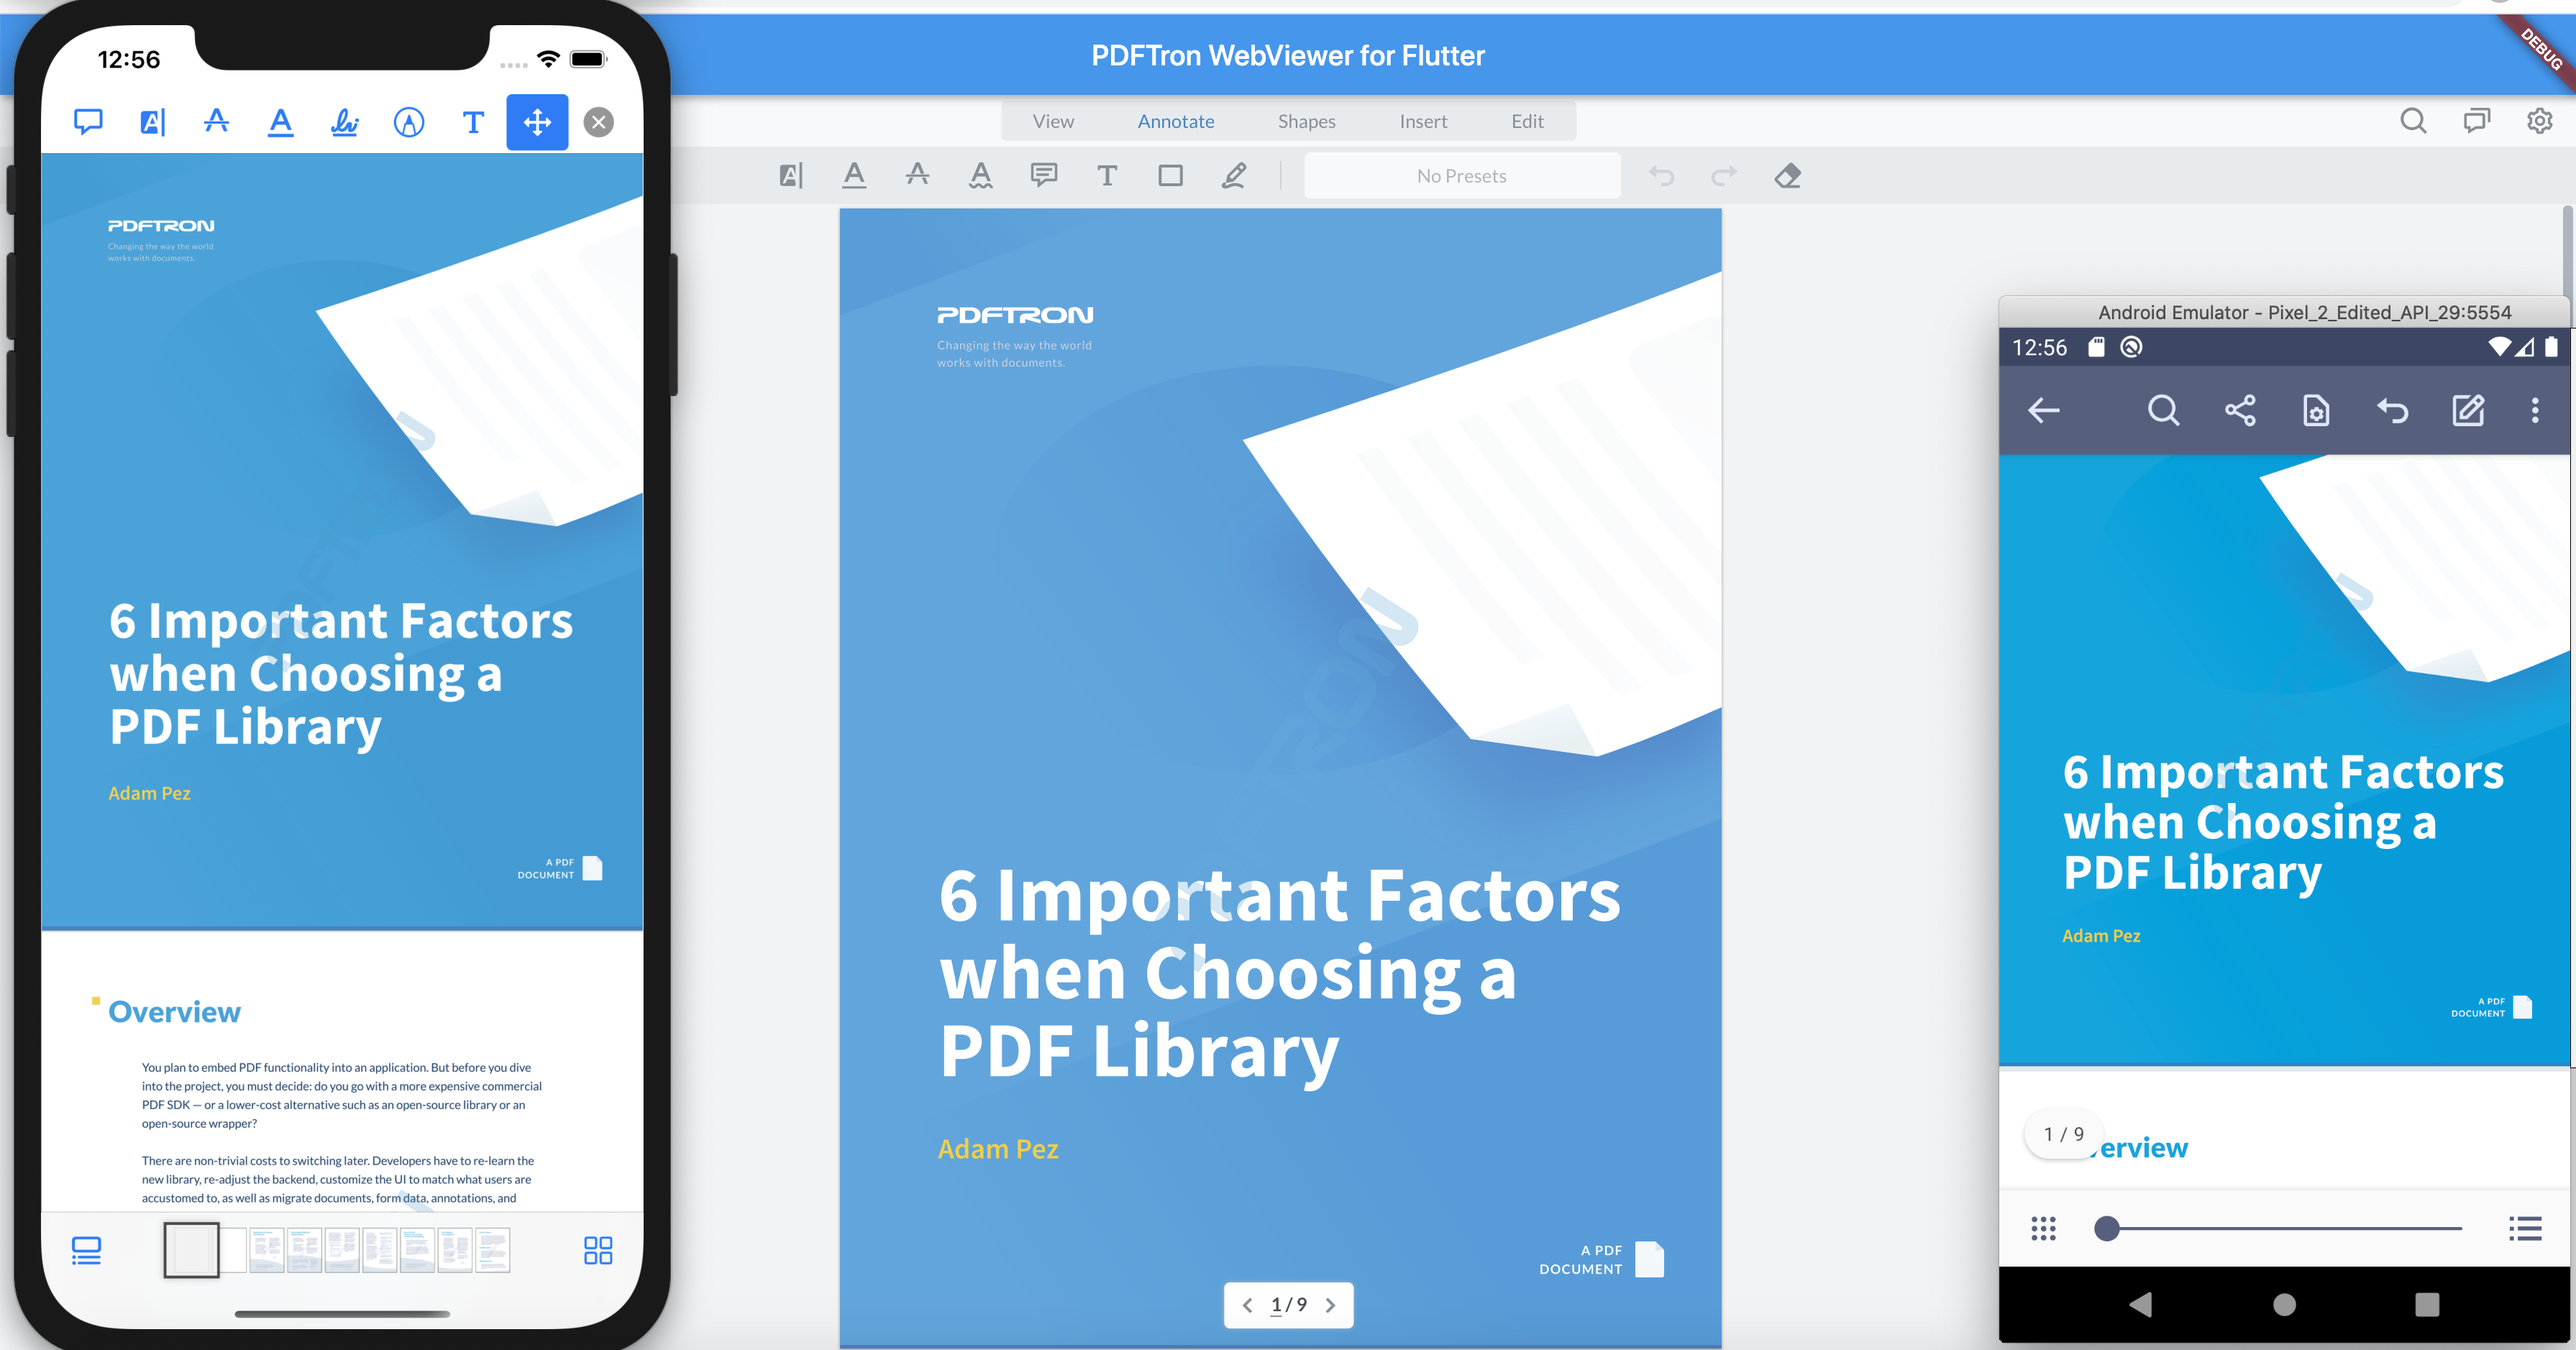
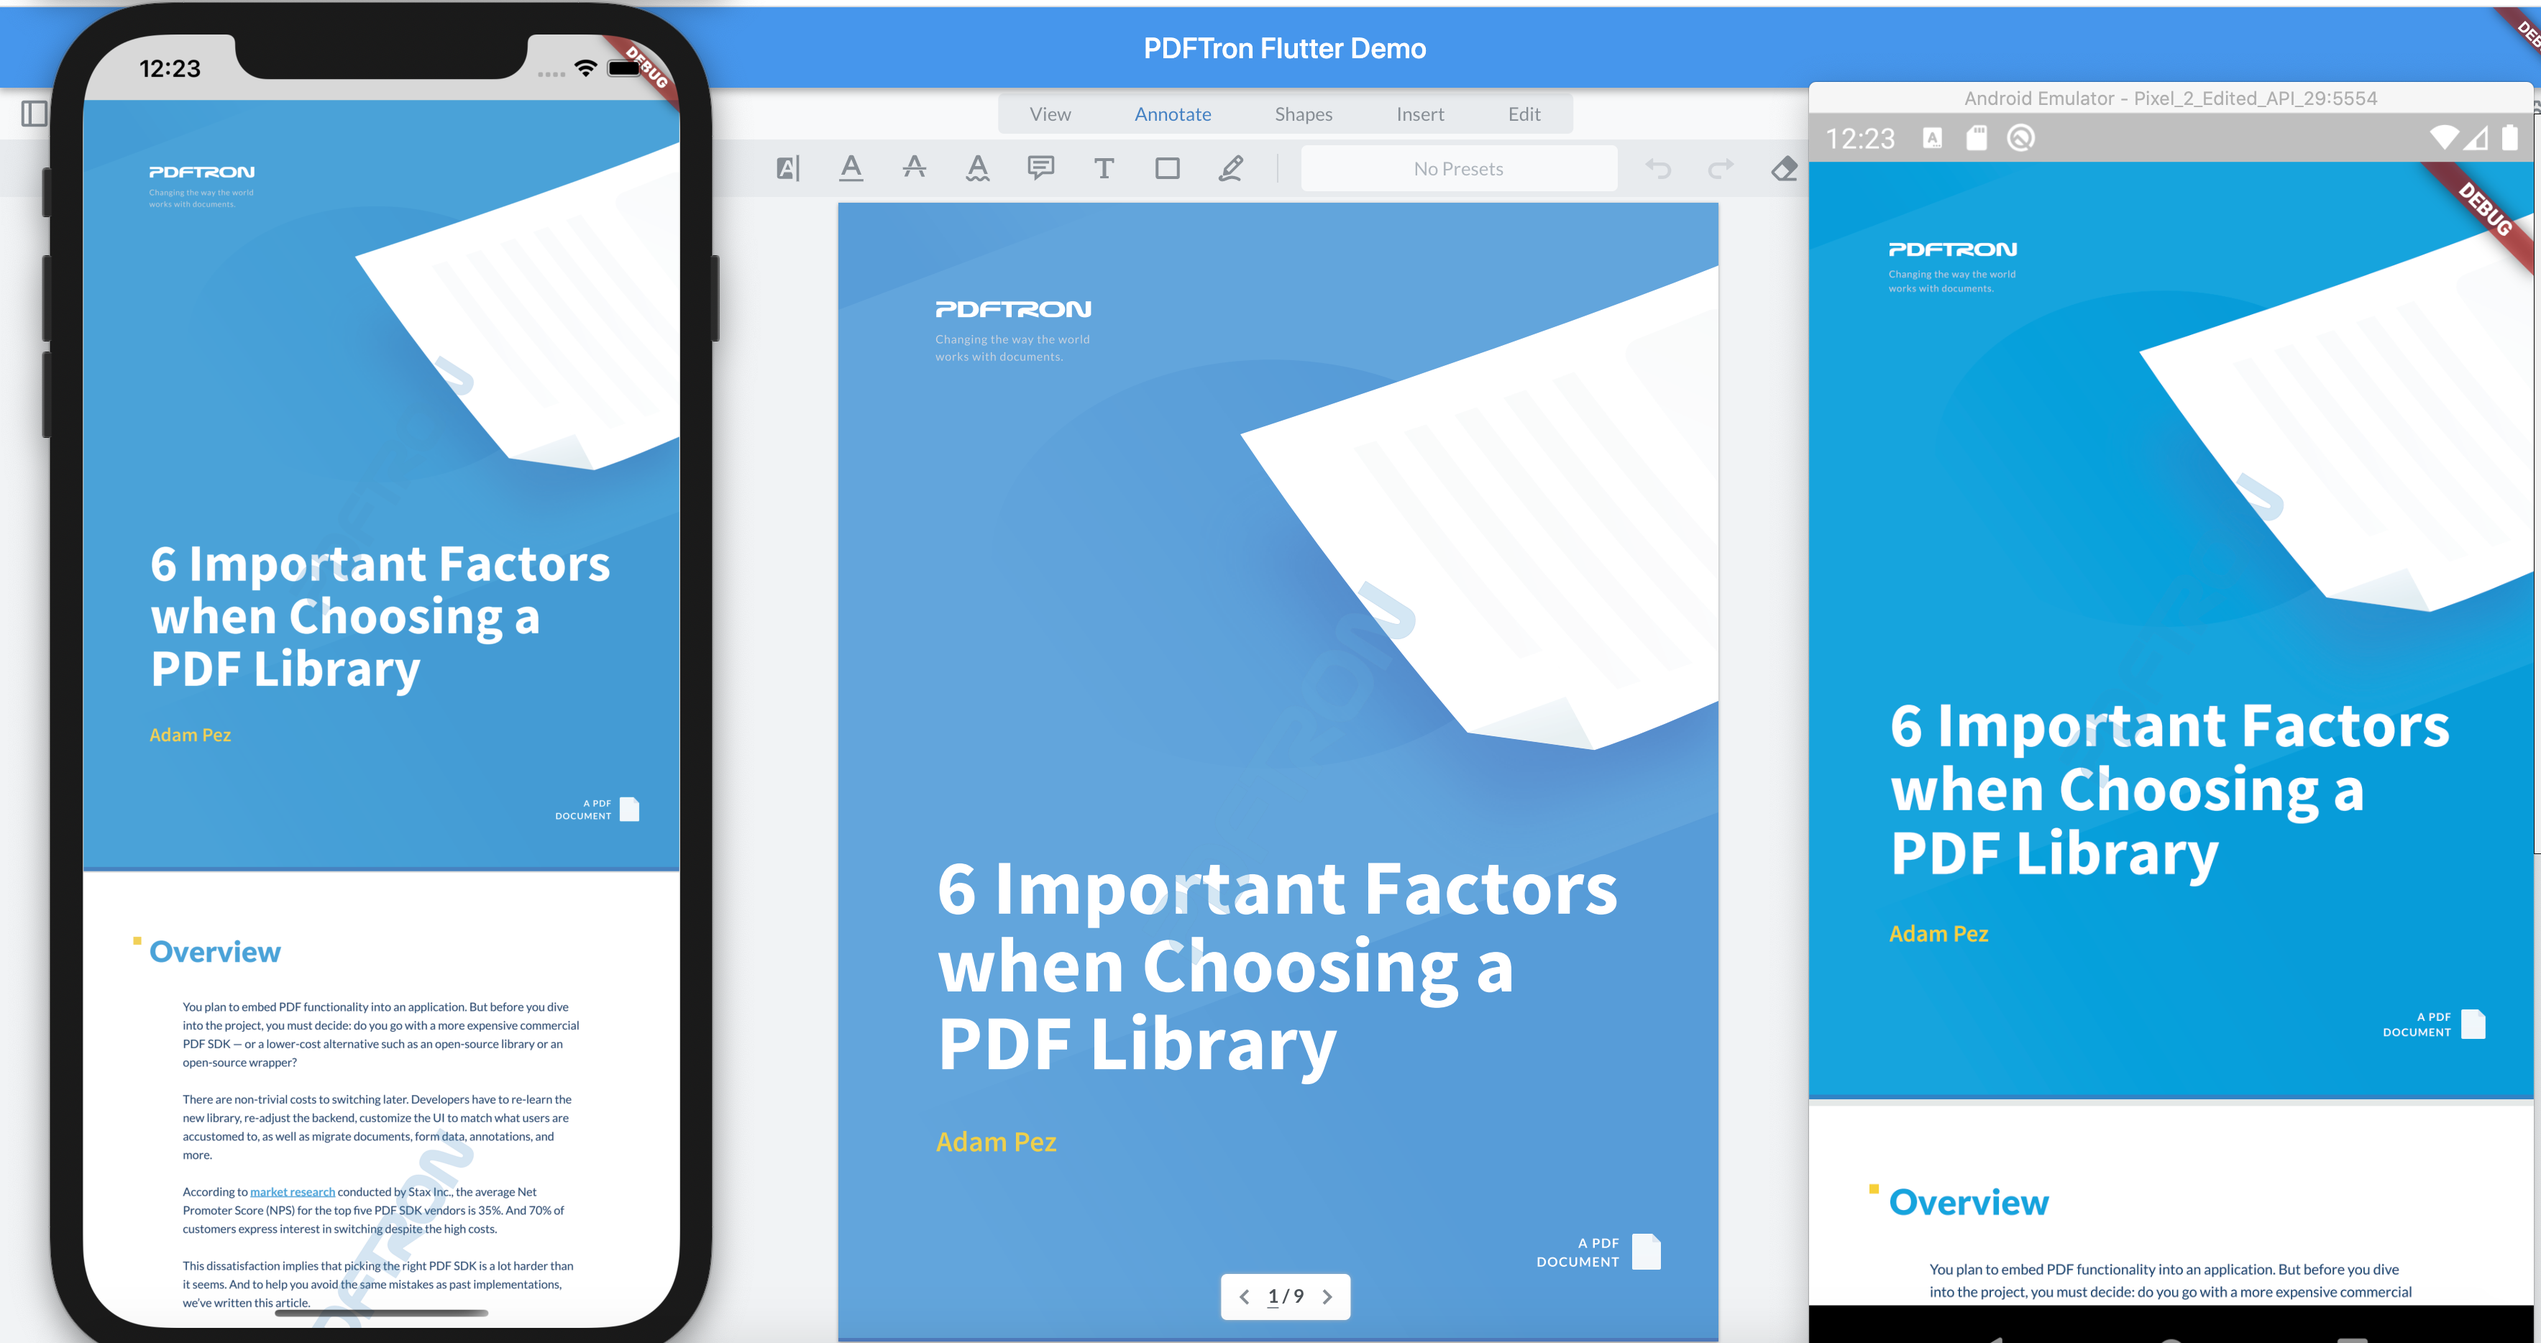
remove app bar for mobile viewer and minor updates

diff --git a/lib/main.dart b/lib/main.dart
@@ -11,28 +11,7 @@ class MyApp extends StatelessWidget {
     String document =
         "https://pdftron.s3.amazonaws.com/downloads/pl/PDFTRON_about.pdf";
     return MaterialApp(
-      theme: ThemeData(
-        // This is the theme of your application.
-        //
-        // Try running your application with "flutter run". You'll see the
-        // application has a blue toolbar. Then, without quitting the app, try
-        // changing the primarySwatch below to Colors.green and then invoke
-        // "hot reload" (press "r" in the console where you ran "flutter run",
-        // or simply save your changes to "hot reload" in a Flutter IDE).
-        // Notice that the counter didn't reset back to zero; the application
-        // is not restarted.
-        primarySwatch: Colors.blue,
-        // This makes the visual density adapt to the platform that you run
-        // the app on. For desktop platforms, the controls will be smaller and
-        // closer together (more dense) than on mobile platforms.
-        visualDensity: VisualDensity.adaptivePlatformDensity,
-      ),
-      home: Scaffold(
-        appBar: AppBar(
-          title: Text('PDFTron Flutter Demo'),
-        ),
-        body: PDFViewer(document),
-      ),
+      home: PDFViewer(document),
     );
   }
 }

diff --git a/lib/pdfviewer/pdfviewer_native.dart b/lib/pdfviewer/pdfviewer_native.dart
@@ -48,15 +48,14 @@ class _NativeViewerState extends State<NativeViewer> {
 
   @override
   Widget build(BuildContext context) {
-    return SafeArea(
-      child: Container(
-        width: double.infinity,
-        height: double.infinity,
-        child: DocumentView(
-          onCreated: onDocumentViewCreated,
-        ),
+    return Scaffold(
+        body: Container(
+      width: double.infinity,
+      height: double.infinity,
+      child: DocumentView(
+        onCreated: onDocumentViewCreated,
       ),
-    );
+    ));
   }
 
   void onDocumentViewCreated(DocumentViewController controller) {
@@ -80,7 +79,7 @@ class _NativeViewerState extends State<NativeViewer> {
   }
 
   void showViewer(DocumentViewController controller) {
-    // shows how to disale functionality
+    // shows how to disable functionality
     //  var disabledElements = [Buttons.shareButton, Buttons.searchButton];
     //  var disabledTools = [Tools.annotationCreateLine, Tools.annotationCreateRectangle];
     var config = Config();

diff --git a/lib/pdfviewer/pdfviewer_web.dart b/lib/pdfviewer/pdfviewer_web.dart
@@ -56,16 +56,20 @@ class _WebViewerState extends State<WebViewer> {
     // The Flutter framework has been optimized to make rerunning build methods
     // fast, so that you can just rebuild anything that needs updating rather
     // than having to individually change instances of widgets.
-    return FractionallySizedBox(
-      widthFactor: 1,
-      heightFactor: 1,
-      child: Container(
-        alignment: Alignment.center,
-        child: HtmlElementView(
-          viewType: viewID,
+    return Scaffold(
+        appBar: AppBar(
+          title: Text('PDFTron Flutter Demo'),
         ),
-      ),
-    );
+        body: FractionallySizedBox(
+          widthFactor: 1,
+          heightFactor: 1,
+          child: Container(
+            alignment: Alignment.center,
+            child: HtmlElementView(
+              viewType: viewID,
+            ),
+          ),
+        ));
   }
 }
 

diff --git a/README.md b/README.md
@@ -2,7 +2,7 @@
 
 This repo is specifically designed for any users interested in applying PDFTron SDK to Flutter in both web and mobile.
 
-![WebViewer UI](https://www.pdftron.com/downloads/pl/webviewer-ui.png)
+<img src="https://raw.githubusercontent.com/Maxwell-Yang-PDFTron/flutter-sample/master/demo.png" style="width:95%" title="barcode web"/>
 
 ## Initial setup
 
